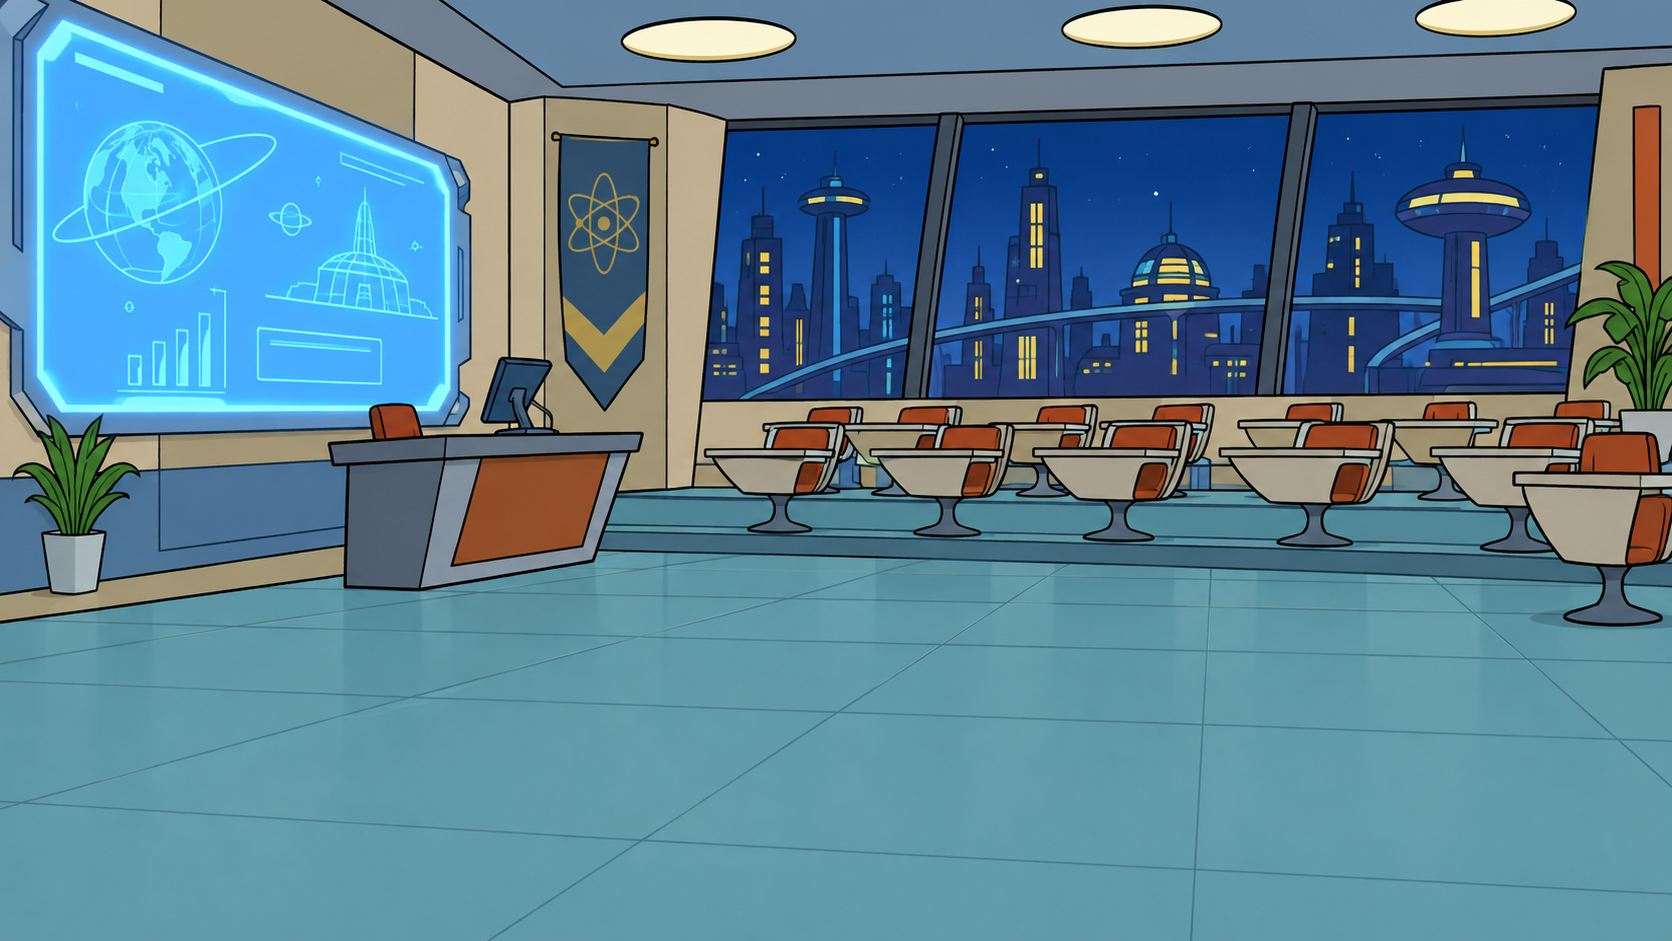
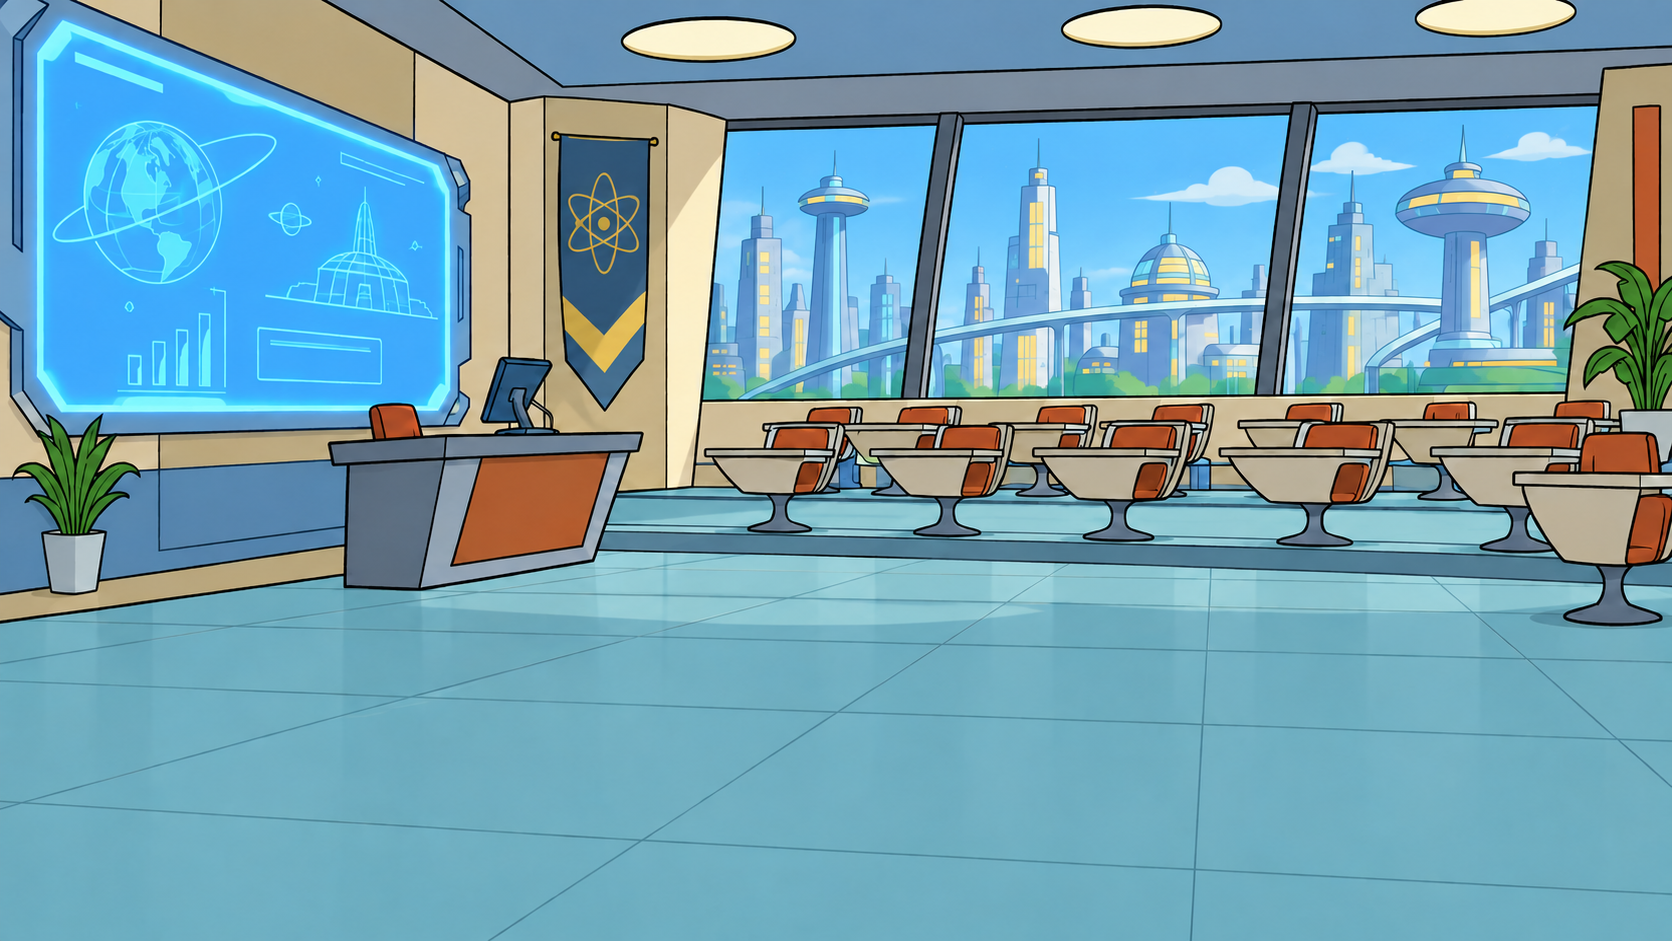
- Add a second classroom scene linked from the corridor - Change the background of classroom 1 (from night to daytime) - Rename classroom to 0.01 - Add its entrance door and exit hotspots, plus a blackboard hotspot - Add stronger depth scaling in the classrooms - Block the front-right seat in the pr

diff --git a/scenes.data.js b/scenes.data.js
@@ -44,20 +44,29 @@ window.SCENES = {
       { x: 68, y: 39, w: 6, h: 4 }   // papelera (derecha)
     ],
     entryPoints: {
-      default:       { x: 50, y: 72 },   // on the entrance mat, inside the corridor
-      fromClassroom: { x: 32, y: 54 },
-      fromStudy:     { x: 70, y: 60 },
-      fromRooftop:   { x: 48, y: 38 }
+      default:        { x: 50, y: 72 },   // on the entrance mat, inside the corridor
+      fromClassroom:  { x: 32, y: 54 },
+      fromClassroom2: { x: 42, y: 34 },
+      fromStudy:      { x: 70, y: 60 },
+      fromRooftop:    { x: 48, y: 38 }
     },
     characters: [],
     hotspots: [
       {
         id: "door-classroom",
-        label: "Aula 2035",
+        label: "Aula 0.01",
         kind: "exit",
         target: "classroom",
         x: 11, y: 7, w: 11, h: 45,
         approach: { x: 30, y: 54 }
+      },
+      {
+        id: "door-classroom2",
+        label: "Aula 0.02",
+        kind: "exit",
+        target: "classroom2",
+        x: 33.4, y: 7, w: 5, h: 28,
+        approach: { x: 42, y: 33 }
       },
       {
         id: "door-study",
@@ -99,10 +108,14 @@ window.SCENES = {
   // ─── Classroom (professor) ───────────────────────────────────────────────
   classroom: {
     id: "classroom",
-    name: "Aula 2035",
+    name: "Aula 0.01",
     caption: "El aula del examen final. La pizarra holográfica parpadea con nervios.",
     bg: { image: "assets/scenes/scene_class_room.png", theme: "classroom" },
-    walk: { yMin: 66, yMax: 95, near: 1.0, far: 0.82 },
+    walk: { yMin: 66, yMax: 95, near: 1.0, far: 0.72 },
+    obstacles: [
+      { x: 91, y: 60, w: 13, h: 5 },   // front-right seat, just above the exit
+      { x: 5, y: 60, w: 5, h: 5 }   // plant under the blackboard
+    ],
     entryPoints: {
       default:      { x: 76, y: 88 },
       fromEntrance: { x: 78, y: 88 }
@@ -130,7 +143,38 @@ window.SCENES = {
       }
     ]
   },
-
+  // ─── Classroom 2 (bright / daytime) ──────────────────────────────
+  classroom2: {
+    id: "classroom2",
+    name: "Aula 0.02",
+    caption: "Otra aula, esta con luz de día. Aquí el examen es a primera hora y sin excusas.",
+    bg: { image: "assets/scenes/scene_class_room_2.png", theme: "classroom" },
+    walk: { yMin: 69.5, yMax: 95, near: 1.0, far: 0.79 },
+    entryPoints: {
+      default:      { x: 76, y: 88 },
+      fromEntrance: { x: 78, y: 88 }
+    },
+    characters: [],
+    hotspots: [
+      {
+        id: "door-out",
+        label: "Salir al pasillo",
+        kind: "exit",
+        target: "entrance",
+        targetEntry: "fromClassroom2",
+        x: 88, y: 70, w: 22, h: 34,
+        approach: { x: 94, y: 90 }
+      },
+      {
+        id: "blackboard",
+        label: "Pizarra holográfica",
+        kind: "look",
+        x: 64, y: 7, w: 36, h: 42,
+        approach: { x: 82, y: 84 },
+        look: "La pizarra proyecta: «Aula B — Aquí sí puedes usar la IA… si demuestras que no la necesitas». Debajo, en letra pequeña: 'y trae café para todos'."
+      }
+    ]
+  },
   // ─── Study room (two students) ───────────────────────────────────────────
   studyroom: {
     id: "studyroom",

diff --git a/engine.js b/engine.js
@@ -218,14 +218,30 @@ function depthScale(y) {
 }
 
 // ─── Movement ───────────────────────────────────────────────────────────────
+// Reads the sprite's actual on-screen feet position (as scene percentages),
+// even mid-transition, so an interrupted walk resumes from where it visually is.
+function currentPlayerPos() {
+  const w = stageEl.clientWidth || 1;
+  const h = stageEl.clientHeight || 1;
+  const cs = getComputedStyle(playerEl);
+  const px = parseFloat(cs.left);
+  const py = parseFloat(cs.top);
+  if (Number.isNaN(px) || Number.isNaN(py)) return { x: GAME.player.x, y: GAME.player.y };
+  return { x: (px / w) * 100, y: (py / h) * 100 };
+}
+
 function walkTo(x, y, cb) {
   const scene = SCENES[GAME.sceneId] || {};
   const w = scene.walk || DEFAULT_WALK;
   const obstacles = scene.obstacles || [];
-  const start = { x: GAME.player.x, y: GAME.player.y };
+  clearTimeout(playerEl._t);
+  // Sync logical position to the real on-screen spot so a re-click mid-walk
+  // doesn't start from an already-advanced position and slide.
+  const cur = currentPlayerPos();
+  GAME.player.x = cur.x; GAME.player.y = cur.y;
+  const start = { x: cur.x, y: cur.y };
   const target = resolveTarget(start, x, y, obstacles, 3, w);
   const path = findPath(start, target, obstacles, w);
-  clearTimeout(playerEl._t);
   walkAlong(path.slice(1), cb);
 }
 

diff --git a/index.html b/index.html
@@ -4,6 +4,9 @@
   <meta charset="UTF-8">
   <meta name="viewport" content="width=device-width, initial-scale=1.0">
   <title>Promptzilla — Aventura</title>
+  <link rel="icon" type="image/svg+xml" href="favicon.svg">
+  <link rel="alternate icon" type="image/x-icon" href="favicon.ico">
+  <link rel="apple-touch-icon" href="apple-touch-icon.png">
   <link rel="stylesheet" href="style.css">
 </head>
 <body class="adventure">
